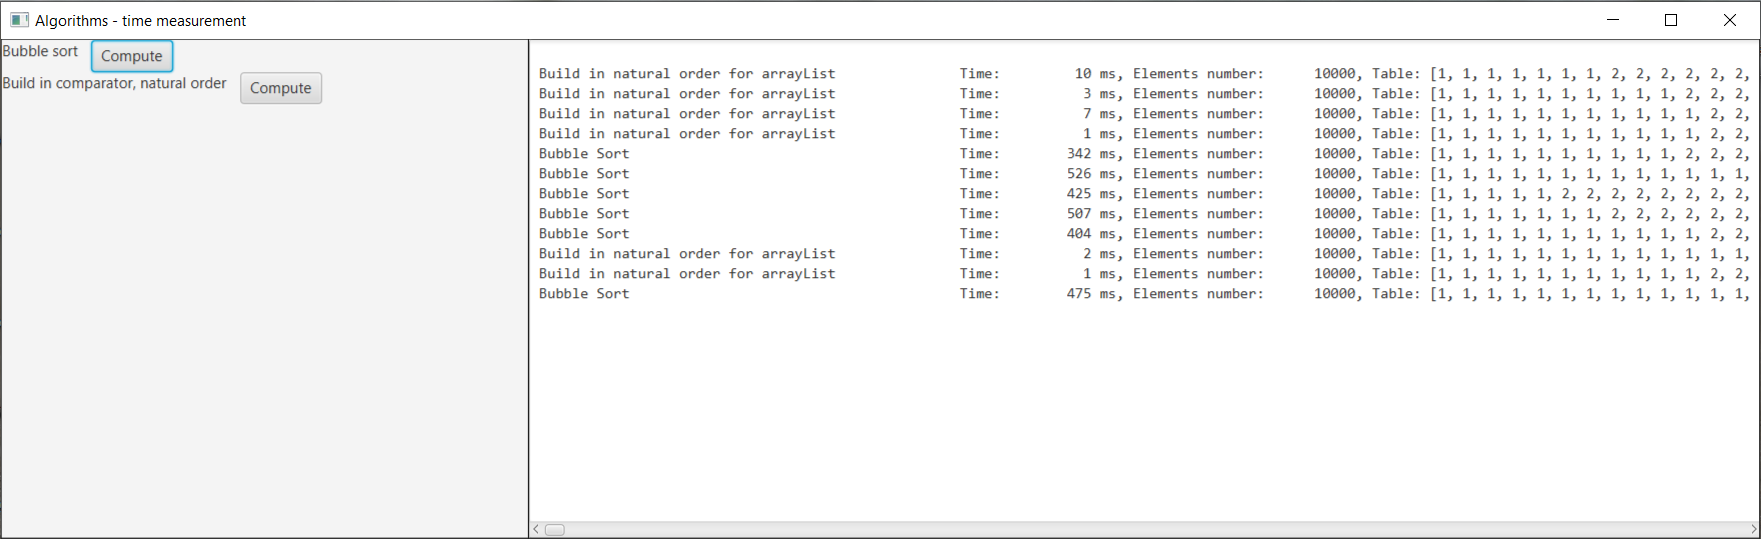
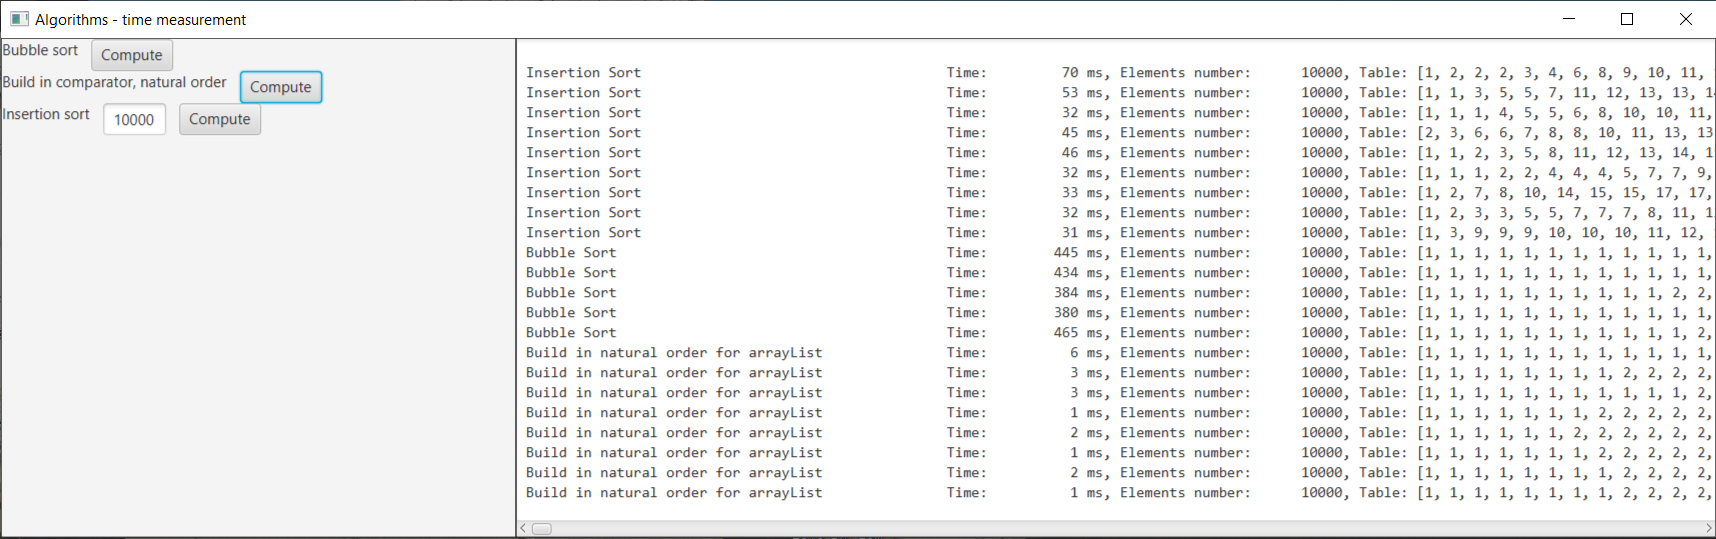
Add insertion sort with custom table size.

Changed region(s): [[0.0, 0.1187, 1.0, 1.0], [0.278, 0.1187, 0.4942, 0.9202], [0.0, 0.0, 1.0, 0.2672]]

diff --git a/src/main/java/controllers/MainController.java b/src/main/java/controllers/MainController.java
@@ -2,11 +2,13 @@ package controllers;
 
 import algorithms.ArrayListBuildInSort;
 import algorithms.BubbleSort;
+import algorithms.InsertionSort;
 import javafx.application.Platform;
 import javafx.concurrent.Task;
 import javafx.event.ActionEvent;
 import javafx.fxml.FXML;
 import javafx.scene.control.TextArea;
+import javafx.scene.control.TextField;
 import utils.ThreadsMgmt;
 
 public class MainController {
@@ -14,6 +16,9 @@ public class MainController {
 
     @FXML
     TextArea console;
+
+    @FXML
+    TextField insertionSortSize;
 
     public void computeBubbleSort(ActionEvent actionEvent) {
         Task<Void> task = new Task() {
@@ -40,6 +45,26 @@ public class MainController {
             @Override
             protected Object call() throws Exception {
                 String output = new ArrayListBuildInSort().arrayListBuildInSort();
+
+                Platform.runLater(new Runnable() {
+                    @Override
+                    public void run() {
+                        console.setText(console.getText() + "\n" + output);
+                    }
+                });
+
+                return null;
+            }
+        };
+
+        threadsMgmt.executor.execute(task);
+    }
+
+    public void computeInsertionSort(ActionEvent actionEvent) {
+        Task<Void> task = new Task() {
+            @Override
+            protected Object call() throws Exception {
+                String output = new InsertionSort(insertionSortSize.getText()).insertionSortExecutor();
 
                 Platform.runLater(new Runnable() {
                     @Override

diff --git a/src/main/java/algorithms/InsertionSort.java b/src/main/java/algorithms/InsertionSort.java
@@ -1,0 +1,54 @@
+package algorithms;
+
+import utils.PrintUtils;
+
+import java.time.Duration;
+import java.time.Instant;
+import java.util.ArrayList;
+import java.util.concurrent.ThreadLocalRandom;
+
+public class InsertionSort {
+    PrintUtils printUtils = new PrintUtils();
+
+    ArrayList table = new ArrayList<Integer>();
+    int size = 100;
+
+    public InsertionSort(String text) {
+        if (text != null && !text.equals("")) {
+            size = Integer.parseInt(text);
+        }
+    }
+
+    public String insertionSortExecutor() {
+        initTable();
+
+        Instant start = Instant.now();
+        insertionSort();
+        Instant finish = Instant.now();
+
+        long timeElapsed = Duration.between(start, finish).toMillisPart();
+
+        return printUtils.createOutput("Insertion Sort", timeElapsed, table.size(), table);
+    }
+
+    private void insertionSort() {
+        int n = table.size();
+
+        for (int i = 1; i < n; i++) {
+            int j = i - 1;
+            while (j >= 0 && (Integer) table.get(j) > (Integer) table.get(i)) {
+                j = j - 1;
+            }
+            table.add(j + 1, table.get(i));
+            table.remove(i + 1);
+        }
+    }
+
+    void initTable() {
+        int s = size;
+        while (s-- > 0) {
+            Integer randomNum = (Integer) ThreadLocalRandom.current().nextInt(1, size + 1);
+            table.add(randomNum);
+        }
+    }
+}
